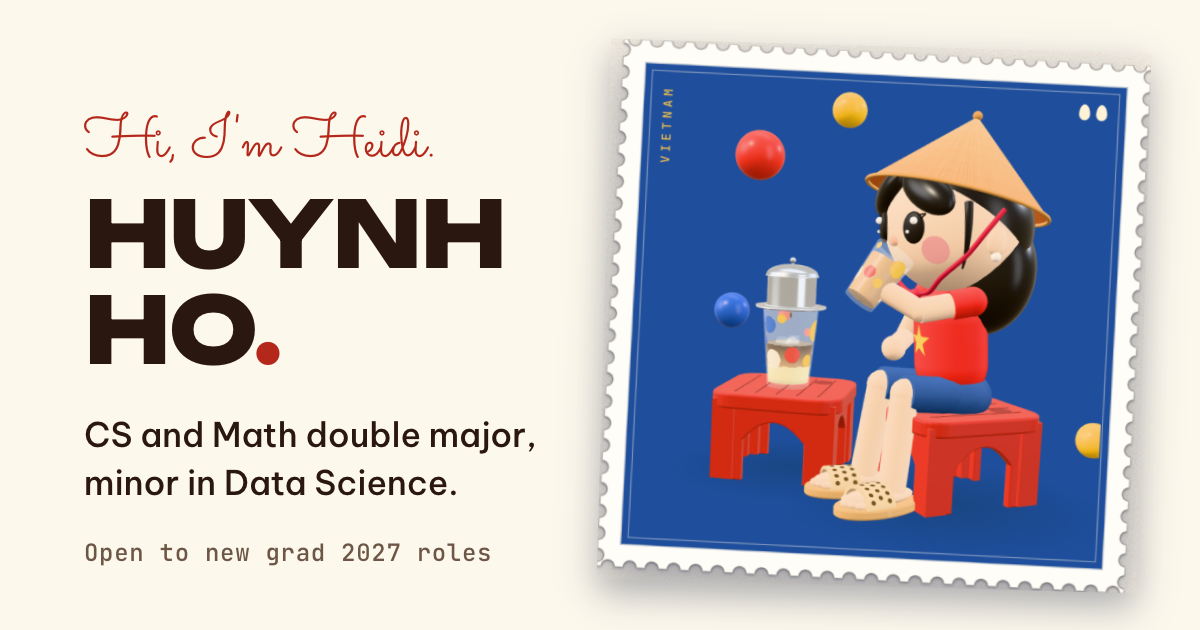
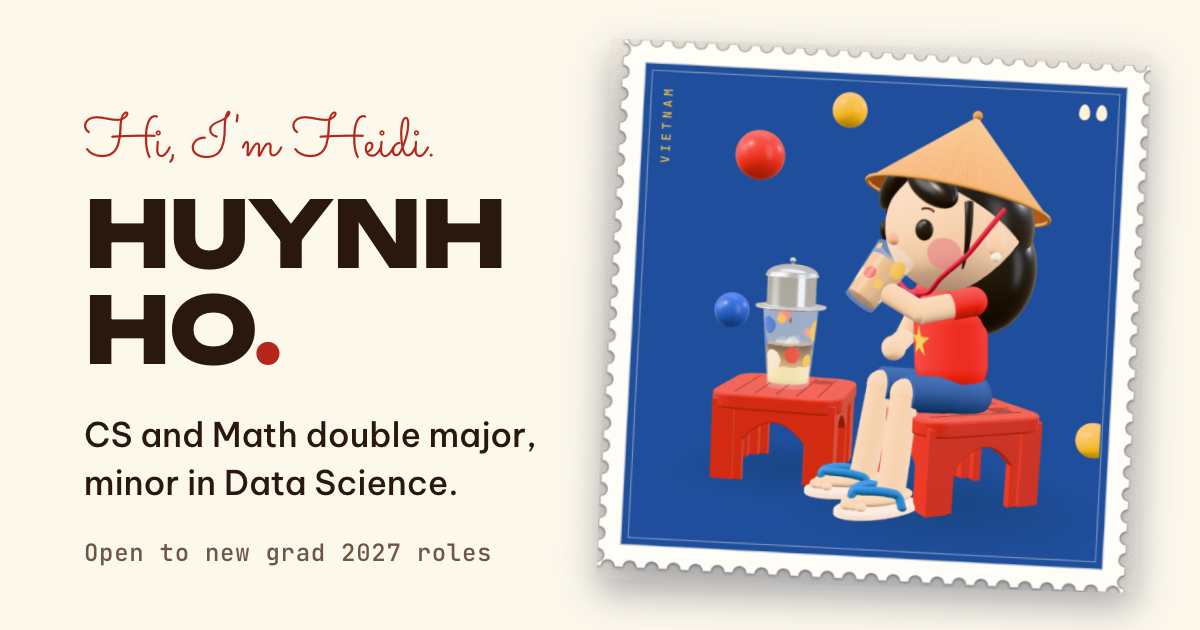
Blue flip-flops and plainer round eyes to match the new reference

Changed region(s): [[0.7092, 0.2714, 0.8017, 0.4222], [0.6475, 0.7238, 0.7708, 0.8444]]

diff --git a/coffee.js b/coffee.js
@@ -311,19 +311,19 @@ function makeHat() {
   return g;
 }
 
-/* ---------- Dép tổ ong: a honeycomb slide sandal ---------- */
+/* ---------- Dép tông: a flip-flop with a pale sole and blue thong straps in a V ---------- */
 function makeSlipper(skinMat) {
   const g = new THREE.Group();
-  const tan = new THREE.MeshStandardMaterial({ color: 0xe0c59c, roughness: 0.55, envMapIntensity: 0.6 });
-  const sole = new THREE.MeshStandardMaterial({ color: 0xc79f6b, roughness: 0.65 });
-  const holeM = new THREE.MeshBasicMaterial({ color: 0x80603c, polygonOffset: true, polygonOffsetFactor: -2, polygonOffsetUnits: -2 });
+  const solePale = new THREE.MeshStandardMaterial({ color: 0xf2e6e1, roughness: 0.5, envMapIntensity: 0.6 });
+  const blue = new THREE.MeshStandardMaterial({ color: 0x1f6fb0, roughness: 0.45, envMapIntensity: 0.8 });
+  const blueDark = new THREE.MeshStandardMaterial({ color: 0x15598f, roughness: 0.5 });
 
-  // sole: a foot-shaped slab, narrower at the heel
+  // sole: a thin foot-shaped slab, narrower at the heel
   const outline = new THREE.Shape();
-  outline.absellipse(0, 0, 1.95, 3.6, 0, Math.PI * 2, false);
-  const soleGeo = new THREE.ExtrudeGeometry(outline, { depth: 0.4, bevelEnabled: true, bevelThickness: 0.2, bevelSize: 0.2, bevelSegments: 3, curveSegments: 32 });
+  outline.absellipse(0, 0, 1.95, 3.65, 0, Math.PI * 2, false);
+  const soleGeo = new THREE.ExtrudeGeometry(outline, { depth: 0.25, bevelEnabled: true, bevelThickness: 0.15, bevelSize: 0.16, bevelSegments: 3, curveSegments: 36 });
   soleGeo.rotateX(Math.PI / 2);                 // shape +y becomes +z (toe forward), extrusion goes down
-  soleGeo.translate(0, 0.6, 1.2);
+  soleGeo.translate(0, 0.4, 1.2);
   {
     const p = soleGeo.attributes.position;
     for (let i = 0; i < p.count; i++) {
@@ -332,45 +332,36 @@ function makeSlipper(skinMat) {
     }
     soleGeo.computeVertexNormals();
   }
-  g.add(new THREE.Mesh(soleGeo, sole));
+  g.add(new THREE.Mesh(soleGeo, solePale));
 
   // foot with toes
   const foot = new THREE.Mesh(new THREE.SphereGeometry(1, 28, 18), skinMat);
-  foot.scale.set(1.4, 0.66, 3.1); foot.position.set(0, 1.25, 1.1);
+  foot.scale.set(1.4, 0.66, 3.1); foot.position.set(0, 1.2, 1.1);
   g.add(foot);
   for (let i = 0; i < 5; i++) {
     const x = -1.05 + i * 0.52;
     const toe = new THREE.Mesh(new THREE.SphereGeometry(i === 2 ? 0.52 : 0.4, 12, 10), skinMat);
     toe.scale.set(1, 0.8, 1.15);
-    toe.position.set(x, 1.0, 4.0 - Math.abs(x) * 0.45 - (i === 0 || i === 4 ? 0.1 : 0));
+    toe.position.set(x, 0.92, 4.0 - Math.abs(x) * 0.45 - (i === 0 || i === 4 ? 0.1 : 0));
     g.add(toe);
   }
 
-  // the strap over the instep: a thick arch with rows of round holes
-  const RX = 1.84, RY = 1.5, T = 0.3, Z0 = 0.75, ZL = 2.5, BASE = 0.78;
-  const arch = new THREE.Shape();
-  arch.moveTo(RX, 0);
-  arch.absellipse(0, 0, RX, RY, 0, Math.PI, false);
-  arch.lineTo(-(RX - T), 0);
-  arch.absellipse(0, 0, RX - T, RY - T, Math.PI, 0, true);
-  arch.lineTo(RX, 0);
-  const archGeo = new THREE.ExtrudeGeometry(arch, { depth: ZL, bevelEnabled: false, curveSegments: 28 });
-  archGeo.translate(0, BASE, Z0);
-  g.add(new THREE.Mesh(archGeo, tan));
-  const Zv = new THREE.Vector3(0, 0, 1), n = new THREE.Vector3();
-  const rows = [Z0 + 0.5, Z0 + 1.25, Z0 + 2.0];
-  rows.forEach((z, ri) => {
-    const cols = ri % 2 ? 6 : 7;
-    for (let k = 0; k < cols; k++) {
-      const th = Math.PI * (0.12 + (0.76 * (k + (ri % 2 ? 0.5 : 0))) / (ri % 2 ? cols : cols - 1));
-      const x = RX * Math.cos(th), y = BASE + RY * Math.sin(th);
-      n.set(Math.cos(th) / (RX * RX), Math.sin(th) / (RY * RY), 0).normalize();
-      const hole = new THREE.Mesh(new THREE.CircleGeometry(0.19, 12), holeM);
-      hole.position.set(x, y, z).addScaledVector(n, 0.012);
-      hole.quaternion.setFromUnitVectors(Zv, n);
-      g.add(hole);
-    }
-  });
+  // thong: a post between the toes, two straps running back over the foot to the sides of the sole
+  const footTop = (x, z) => 1.2 + 0.66 * Math.sqrt(Math.max(1 - (x / 1.4) ** 2 - ((z - 1.1) / 3.1) ** 2, 0));
+  for (const sx of [-1, 1]) {
+    const path = [[0, 3.55], [0.5, 2.9], [0.95, 1.95], [1.25, 1.05], [1.4, 0.3]].map(([x, z]) =>
+      new THREE.Vector3(sx * x, Math.max(footTop(x, z) + 0.3, 0.95), z));
+    path.push(new THREE.Vector3(sx * 1.78, 0.62, 0.12));
+    path.unshift(new THREE.Vector3(0, 0.62, 3.6));
+    const strap = new THREE.Mesh(new THREE.TubeGeometry(new THREE.CatmullRomCurve3(path), 40, 0.34, 10, false), blue);
+    g.add(strap);
+    const stud = new THREE.Mesh(new THREE.SphereGeometry(0.36, 12, 10), blueDark);   // where the strap meets the sole
+    stud.position.set(sx * 1.78, 0.6, 0.12); stud.scale.set(1, 0.6, 1);
+    g.add(stud);
+  }
+  const post = new THREE.Mesh(new THREE.SphereGeometry(0.38, 14, 10), blueDark);
+  post.position.set(0, 0.8, 3.6); post.scale.set(1, 0.7, 1);
+  g.add(post);
   return g;
 }
 
@@ -555,9 +546,9 @@ export function startCoffee({ canvas, stage, onReady }) {
   backHair.scale.set(5.5, 5.4, 3.9); backHair.position.set(0, HC.y - 3.1, HC.z - 3.3);
   head.add(cap, backHair);
   for (const sx of [-1, 1]) {
-    const lobe = pin(sx * 2.9, HC.y + 2.0, 0.28);
+    const lobe = pin(sx * 2.9, HC.y + 2.45, 0.28);
     const m = new THREE.Mesh(new THREE.SphereGeometry(1, 30, 20), hairM);
-    m.scale.set(2.9, 1.5, 1.1); m.rotation.z = -sx * 0.42;
+    m.scale.set(2.9, 1.35, 1.1); m.rotation.z = -sx * 0.4;
     lobe.add(m);
     // a thin lock down the side of the face, in front of the ear
     const pts = [];
@@ -570,34 +561,25 @@ export function startCoffee({ canvas, stage, onReady }) {
     head.add(taperedStrand(pts, 0.34, hairM));
   }
 
-  /* Face */
+  /* Face: simple and sweet. Plain round black eyes, one thin brow each, a round nose, a small smile. */
+  const eyeBlack = new THREE.MeshStandardMaterial({ color: 0x120d0c, roughness: 0.3, envMapIntensity: 0.9 });
   const eyes = [];
   for (const sx of [-1, 1]) {
-    const eyeY = HC.y - 0.8;
-    const eye = pin(sx * 2.4, eyeY, 0.05);
-    const ball = new THREE.Mesh(new THREE.SphereGeometry(1, 24, 18), dark);
-    ball.scale.set(1.0, 1.25, 0.42);
-    const hl = new THREE.Group();
-    const h1 = new THREE.Mesh(new THREE.SphereGeometry(0.3, 12, 10), white); h1.position.set(0.3, 0.46, 0.46);
-    const h2 = new THREE.Mesh(new THREE.SphereGeometry(0.15, 10, 8), white); h2.position.set(-0.3, -0.42, 0.44);
-    hl.add(h1, h2);
+    const eye = pin(sx * 3.25, HC.y - 0.9, 0.05);
+    const ball = new THREE.Mesh(new THREE.SphereGeometry(1, 24, 18), eyeBlack);
+    ball.scale.set(0.74, 0.82, 0.4);
+    const hl = new THREE.Group();                    // (kept so the gaze code has something to move)
     eye.add(ball, hl);
-    for (const [a, len] of [[0.9, 0.62], [0.35, 0.55]]) {            // two lashes at the outer corner
-      const lash = new THREE.Mesh(new THREE.CapsuleGeometry(0.055, len, 3, 6), dark);
-      lash.position.set(sx * (0.95 + 0.25 * (0.9 - a)), 0.78 + 0.3 * a, 0.28);
-      lash.rotation.z = -sx * (0.6 + a * 0.9);
-      eye.add(lash);
-    }
     eyes.push({ eye, pupil: hl, base: hl.position.clone() });
 
-    const br = pin(sx * 2.5, HC.y + 1.55, 0.08);
-    const arc = new THREE.Mesh(new THREE.TorusGeometry(1.05, 0.1, 6, 20, 1.3), brow);
-    arc.rotation.z = Math.PI / 2 - 0.65 - sx * 0.12;
-    arc.position.y = -0.7;
+    const br = pin(sx * 3.3, HC.y + 0.45, 0.1);
+    const arc = new THREE.Mesh(new THREE.TorusGeometry(1.05, 0.075, 6, 20, 1.15), brow);
+    arc.rotation.z = Math.PI / 2 - 0.58 - sx * 0.1;
+    arc.position.y = -0.75;
     br.add(arc);
 
-    const bl = pin(sx * 3.75, HC.y - 2.3, 0.04);
-    bl.add(new THREE.Mesh(new THREE.CircleGeometry(1.15, 24), blush));
+    const bl = pin(sx * 4.15, HC.y - 2.5, 0.04);
+    bl.add(new THREE.Mesh(new THREE.CircleGeometry(1.35, 28), blush));
 
     // ear and pearl earring
     const ear = new THREE.Mesh(new THREE.SphereGeometry(1, 20, 14), skin);
@@ -608,13 +590,13 @@ export function startCoffee({ canvas, stage, onReady }) {
     pr.position.set(sx * (HR * HS.x + 0.08), HC.y - 2.15, HC.z - 0.4);
     head.add(pr);
   }
-  const nose = pin(0, HC.y - 1.9, 0.12);
-  const noseM = new THREE.Mesh(new THREE.SphereGeometry(0.5, 14, 10), new THREE.MeshStandardMaterial({ color: 0xf0bd9d, roughness: 0.6 }));
-  noseM.scale.set(1, 0.82, 0.8);
+  const nose = pin(0, HC.y - 1.7, 0.12);
+  const noseM = new THREE.Mesh(new THREE.SphereGeometry(0.62, 16, 12), new THREE.MeshStandardMaterial({ color: 0xf2b99b, roughness: 0.55 }));
+  noseM.scale.set(1, 0.85, 0.85);
   nose.add(noseM);
-  const mouth = pin(0, HC.y - 3.15, 0.04);          // a tiny smile; hidden while she sips
-  const smile = new THREE.Mesh(new THREE.TorusGeometry(0.75, 0.075, 6, 18, 1.9), dark);
-  smile.rotation.z = -Math.PI / 2 - 0.95;
+  const mouth = pin(0, HC.y - 3.2, 0.04);          // a small smile; hidden while she sips
+  const smile = new THREE.Mesh(new THREE.TorusGeometry(0.95, 0.065, 6, 20, 1.45), new THREE.MeshStandardMaterial({ color: 0x9c3a2b, roughness: 0.6 }));
+  smile.rotation.z = -Math.PI / 2 - 0.725;
   mouth.add(smile);
 
   /* Nón lá, pushed back a little, with a red strap under the chin */
@@ -778,6 +760,7 @@ export function startCoffee({ canvas, stage, onReady }) {
 
   /* ---- camera ---- */
   const CENTER = new THREE.Vector3(-7.0, 14.6, 1.5);
+  const ELEV = Number(new URLSearchParams(location.search).get('elev') || 8);   // test option: /?elev=40 looks down on the scene
   let dist = 80, az = 0.38, azBase = 0.38, tilt = 0, tiltT = 0, drag = null, dragStart = 0;
   function resize() {
     const w = stage.clientWidth, h = stage.clientHeight;
@@ -789,7 +772,7 @@ export function startCoffee({ canvas, stage, onReady }) {
     if (reduced) render();
   }
   function render() {
-    camera.position.set(CENTER.x + Math.sin(az) * dist, CENTER.y + 8 + tilt * 8, CENTER.z + Math.cos(az) * dist);
+    camera.position.set(CENTER.x + Math.sin(az) * dist, CENTER.y + ELEV + tilt * 8, CENTER.z + Math.cos(az) * dist);
     camera.lookAt(CENTER);
     renderer.render(scene, camera);
   }

diff --git a/index.html b/index.html
@@ -21,7 +21,7 @@
   <link rel="canonical" href="https://huynna12.github.io/">
   <script>try{if(!/[?&]intro\b/.test(location.search)&&sessionStorage.getItem('intro-seen'))document.documentElement.className+=' no-intro'}catch(e){}</script>
   <noscript><style>.curtain{display:none!important}</style></noscript>
-  <link rel="stylesheet" href="style.css?v=43">
+  <link rel="stylesheet" href="style.css?v=44">
 </head>
 <body>
   <div class="curtain" id="intro" role="presentation">
@@ -214,7 +214,7 @@
 
   <footer><p>gg, thanks for stopping by. <span>Psst: press R.</span></p></footer>
 
-  <script src="data/site.js?v=43" defer></script>
-  <script src="script.js?v=43" defer></script>
+  <script src="data/site.js?v=44" defer></script>
+  <script src="script.js?v=44" defer></script>
 </body>
 </html>

diff --git a/script.js b/script.js
@@ -184,7 +184,7 @@ addEventListener('keydown', (e) => {
 const fig = $('phin-fig');
 function loadCoffee() {
   if (navigator.connection && navigator.connection.saveData) return;
-  import('./coffee.js?v=43').then((m) => {
+  import('./coffee.js?v=44').then((m) => {
     m.startCoffee({ canvas: $('coffee'), stage: $('coffee-stage'), onReady: () => fig.classList.add('has3d') });
   }).catch((e) => { fig.dataset.err = String((e && e.message) || e).slice(0, 160); });
 }
